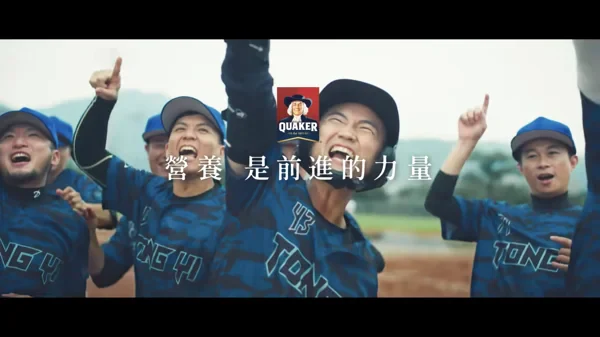
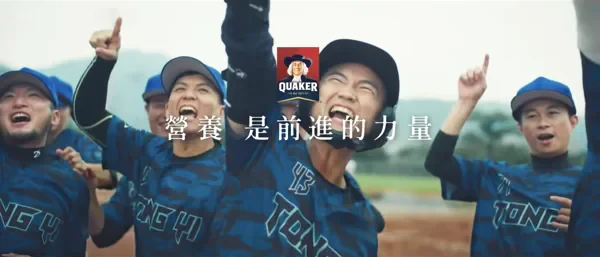
feat: 完成劇照黑邊裁除與焦點對位、同品牌篇名區隔及字體 CSP 相容升級

diff --git a/src/data/portfolio.js b/src/data/portfolio.js
@@ -137,7 +137,8 @@ export const categories = [
       {
         "name": "瑞穗鮮乳",
         "bgImage": "/vfx/A/A-023.webp",
-        "url": "https://www.youtube.com/watch?v=owT3Sj_So60"
+        "url": "https://www.youtube.com/watch?v=owT3Sj_So60",
+        "imagePosition": "22% 50%"
       },
       {
         "name": "義美生機",
@@ -223,7 +224,8 @@ export const categories = [
         "bgImage": "/vfx/B/B-08.webp",
         "url": "https://www.facebook.com/watch/?v=558217842125093",
         "videoId": "558217842125093",
-        "isFacebook": true
+        "isFacebook": true,
+        "imagePosition": "50% 28%"
       },
       {
         "name": "Samsung Z Fold4 / Z Flip4",
@@ -270,7 +272,8 @@ export const categories = [
       {
         "name": "Gogoro Pulse",
         "bgImage": "/vfx/C/C-04.webp",
-        "url": "https://www.youtube.com/watch?v=Wyijlye4kMg"
+        "url": "https://www.youtube.com/watch?v=Wyijlye4kMg",
+        "imagePosition": "20% 50%"
       },
       {
         "name": "Gogoro EZZY",
@@ -326,7 +329,7 @@ export const categories = [
     "name": "生活與百貨",
     "items": [
       {
-        "name": "新光三越",
+        "name": "新光三越 週年慶",
         "bgImage": "/vfx/D/D-13.webp",
         "url": "https://www.youtube.com/watch?v=wZhogI5TPB8",
         "featured": true
@@ -342,12 +345,12 @@ export const categories = [
         "url": "https://www.youtube.com/watch?v=BOj8-iDaB0s"
       },
       {
-        "name": "HOLA",
+        "name": "HOLA 老相機篇",
         "bgImage": "/vfx/D/D-03.webp",
         "url": "https://www.youtube.com/watch?v=Q9LzOnPCeNY"
       },
       {
-        "name": "東和鋼鐵",
+        "name": "東和鋼鐵 百分百足重篇",
         "bgImage": "/vfx/D/D-09.webp",
         "url": "https://www.youtube.com/watch?v=rYPjfcAH-rc"
       },
@@ -360,7 +363,7 @@ export const categories = [
         "bgImage": "/vfx/D/D-02.webp"
       },
       {
-        "name": "HOLA",
+        "name": "HOLA 新年遊戲篇",
         "bgImage": "/vfx/D/D-04.webp",
         "url": "https://www.youtube.com/watch?v=j8XBx4yFsN8"
       },
@@ -379,12 +382,12 @@ export const categories = [
         "url": "https://www.youtube.com/watch?v=nFl6OMheFho"
       },
       {
-        "name": "東和鋼鐵",
+        "name": "東和鋼鐵 人生地震",
         "bgImage": "/vfx/D/D-10.webp",
         "url": "https://www.youtube.com/watch?v=F7SOWrCCJyM"
       },
       {
-        "name": "東和鋼鐵",
+        "name": "東和鋼鐵 鋼好篇",
         "bgImage": "/vfx/D/D-11.webp",
         "url": "https://www.youtube.com/watch?v=UFPNdAaG0_M"
       },
@@ -394,17 +397,17 @@ export const categories = [
         "url": "https://www.youtube.com/watch?v=yjl03-QCzbM"
       },
       {
-        "name": "新光三越",
+        "name": "新光三越 母親節寵愛篇",
         "bgImage": "/vfx/D/D-14.webp",
         "url": "https://www.youtube.com/watch?v=xS3VLzTJxs0"
       },
       {
-        "name": "新光三越",
+        "name": "新光三越 母親節媽吉篇",
         "bgImage": "/vfx/D/D-15.webp",
         "url": "https://www.youtube.com/watch?v=7bpKC3naivA"
       },
       {
-        "name": "新光三越",
+        "name": "新光三越 夏天卡利HIGH",
         "bgImage": "/vfx/D/D-16.webp",
         "url": "https://www.youtube.com/watch?v=QC2Adq-3lOc"
       },
@@ -462,7 +465,8 @@ export const categories = [
         "name": "Bifesta 碧菲絲特",
         "bgImage": "/vfx/E/E-03.webp",
         "url": "https://www.youtube.com/shorts/jPH0atsz3UY",
-        "aspect": "portrait"
+        "aspect": "portrait",
+        "imagePosition": "50% 38%"
       },
       {
         "name": "MAMA 永恆光燦系列",
@@ -493,7 +497,8 @@ export const categories = [
       {
         "name": "蕾妮亞",
         "bgImage": "/vfx/E/E-13.webp",
-        "url": "https://www.instagram.com/reels/DLjzvwEyK6A/"
+        "url": "https://www.instagram.com/reels/DLjzvwEyK6A/",
+        "imagePosition": "50% 24%"
       },
       {
         "name": "義美生醫 鈣D加",
@@ -518,7 +523,7 @@ export const categories = [
         "featured": true
       },
       {
-        "name": "台灣Pay",
+        "name": "台灣Pay 你的Pay配不配",
         "bgImage": "/vfx/F/F-02.webp",
         "url": "https://www.youtube.com/watch?v=gsQScjFurQs"
       },
@@ -535,7 +540,7 @@ export const categories = [
         "isFacebook": true
       },
       {
-        "name": "台灣Pay",
+        "name": "台灣Pay 共榮生活圈",
         "bgImage": "/vfx/F/F-03.webp",
         "url": "https://www.youtube.com/watch?v=ckgbItI0kaw"
       },

diff --git a/src/components/Manifesto.jsx b/src/components/Manifesto.jsx
@@ -214,9 +214,8 @@ export default function Manifesto({ onPlayVideo }) {
           <div className="md:col-span-5 md:sticky md:top-28 space-y-8 text-zinc-300 text-sm md:text-[16px] leading-[1.9] font-light">
             <p>
               作為台灣俗稱的 <span className="text-white font-normal">D1 技師 (VFX Artist)</span>，我接手廣告製作的最後一步。一支廣告片從前期創意發想、實際拍攝、Offline 剪接再到調光，最後檔案來到我手中，使用{' '}
-              <span
-                role="button"
-                tabIndex={0}
+              <button
+                type="button"
                 aria-label="檢視 Autodesk Flame 實際專案 Batch 節點介面"
                 onPointerEnter={handleFlameEnter}
                 onPointerLeave={(e) => {
@@ -228,23 +227,20 @@ export default function Manifesto({ onPlayVideo }) {
                 onBlur={() => setFlamePreview(null)}
                 onClick={openFlameSchematic}
                 onKeyDown={(e) => {
-                  if (e.key === 'Enter' || e.key === ' ') {
-                    e.preventDefault();
-                    openFlameSchematic();
-                  } else if (e.key === 'Escape' && flamePreview) {
+                  if (e.key === 'Escape' && flamePreview) {
                     e.preventDefault();
                     e.stopPropagation();
                     setFlamePreview(null);
                   }
                 }}
-                className="relative inline-flex items-center gap-1 group/flame cursor-pointer focus:outline-none focus-visible:ring-1 focus-visible:ring-spectral-crimson"
+                className="relative inline-flex items-center gap-1 group/flame cursor-pointer bg-transparent border-0 p-0 align-baseline focus:outline-none focus-visible:ring-1 focus-visible:ring-spectral-crimson"
               >
                 <span className="text-white group-hover/flame:text-dawn-gold font-medium transition-colors duration-300">
                   Autodesk Flame
                 </span>
                 <ArrowUpRight size={13} className="text-spectral-crimson transition-transform duration-300 group-hover/flame:translate-x-0.5 group-hover/flame:-translate-y-0.5" />
                 <span className="absolute bottom-0 left-0 w-full h-[1.5px] spectral-underline" />
-              </span>{' '}
+              </button>{' '}
               進行 Online。依需求進行人物膚質精修、場景穿幫、綠幕去背、3D物件合成、商品合成與字幕效果。在反覆經由導演、代理商確認並與客戶實際交片後，最後製作 <span className="text-white font-normal">SC 播帶</span>，完成這次專案。
             </p>
 
@@ -325,6 +321,10 @@ export default function Manifesto({ onPlayVideo }) {
                                   />
                                   <span>{param.key}</span>
                                 </span>
+                                <ArrowUpRight
+                                  size={14}
+                                  className="shrink-0 text-zinc-500 group-hover/play:text-spectral-crimson group-hover/play:translate-x-0.5 group-hover/play:-translate-y-0.5 transition-[color,transform] duration-200"
+                                />
                               </a>
                             ) : (
                               <button

diff --git a/src/data/__tests__/portfolio.test.js b/src/data/__tests__/portfolio.test.js
@@ -95,11 +95,11 @@ describe('portfolio.js 最佳化邏輯測試', () => {
         '長榮航空',
       ]);
       expect(getNames('lifestyle', 5)).toEqual([
-        '新光三越',
+        '新光三越 週年慶',
         'LaLaport 南港',
         '錦鋐氣密窗',
-        'HOLA',
-        '東和鋼鐵',
+        'HOLA 老相機篇',
+        '東和鋼鐵 百分百足重篇',
       ]);
       // 確認生活百貨首位新光三越、HOLA、東和鋼鐵皆為原排序首支版本
       const lifestyleItems = categories.find((c) => c.id === 'lifestyle').items;
@@ -116,10 +116,10 @@ describe('portfolio.js 最佳化邏輯測試', () => {
       ]);
       expect(getNames('finance', 5)).toEqual([
         '渣打銀行',
-        '台灣Pay',
+        '台灣Pay 你的Pay配不配',
         '磊山保經',
         '安聯人壽',
-        '台灣Pay',
+        '台灣Pay 共榮生活圈',
       ]);
 
       // 驗證全站 97 筆作品無遺漏、無重複 bgImage

diff --git a/index.html b/index.html
@@ -53,12 +53,7 @@
     fetchpriority="high" />
   <link
     href="https://fonts.googleapis.com/css2?family=Montserrat:wght@700;800&family=Plus+Jakarta+Sans:wght@300;400;500;600&family=JetBrains+Mono:wght@400;500&family=Noto+Sans+TC:wght@300;400;500;700&display=swap"
-    rel="stylesheet" media="print" onload="this.media='all'" />
-  <noscript>
-    <link
-      href="https://fonts.googleapis.com/css2?family=Montserrat:wght@700;800&family=Plus+Jakarta+Sans:wght@300;400;500;600&family=JetBrains+Mono:wght@400;500&family=Noto+Sans+TC:wght@300;400;500;700&display=swap"
-      rel="stylesheet" />
-  </noscript>
+    rel="stylesheet" />
 
   <!-- Structured Data for AEO / GEO & Video Rich Snippet -->
   <script type="application/ld+json">

diff --git a/src/components/VisualSynthesis.jsx b/src/components/VisualSynthesis.jsx
@@ -159,7 +159,7 @@ const CAPTION_VARIANTS = {
   },
 };
 
-const VFX_ASSET_VERSION = 'v5';
+const VFX_ASSET_VERSION = 'v6';
 
 const getDisplayImageUrl = (item) => {
   if (!item?.bgImage) return null;

diff --git a/PROJECT_NOTES.md b/PROJECT_NOTES.md
@@ -318,4 +318,8 @@
   - **應徵前全站影片可播性與品牌正名校準（`portfolio.js`、`Manifesto.jsx`、`portfolio.test.js`、`Modal.test.jsx`）**：
     - 對全站 63 支 YouTube 作品與兩支 Showreel 執行 oEmbed 可播性實彈稽核：修正「美妝與健康」分類 `Accu-Chek 羅氏血糖機` 品牌拼字，並移除客戶已轉為私人影片之失效連結 `HUaASbBDOSM`（轉為純劇照展示卡）；同步將鴻華先進概念車名統一校正為官方正名 `Foxtron Cavira`。
     - 清理 4 筆外部連結冗餘參數（移除 `Panasonic 冷萃咖啡機` 馬來西亞語系 `?locale=ms_MY`、`中國信託` 播放清單、`TOBLERONE` 時間碼與 `Foxtron Cavira` 追蹤碼）；對齊 `農純鄉 大本山益生菌`、`foodpanda`、`Uber Eats` 官方標準字；並將聯絡區抽屜（`Contact.jsx`、`FeedbackModal.jsx`）文案由網站意見回饋升級為「傳送訊息／專案合作洽詢、職務邀約或影像交流」專業商務語氣。
+  - **第十一輪全站光學構圖裁切、同品牌篇名區隔與 CSP 字體載入深度打磨（`portfolio.js`、`VisualSynthesis.jsx`、`Manifesto.jsx`、`index.html`、`vercel.json`）**：
+    - **直式與 4:3 劇照構圖對位**：為 `Samsung Z Fold3 / Z Flip3`（`50% 28%`）、`蕾妮亞`（`50% 24%`）、`Bifesta 碧菲絲特`（`50% 38%`）補齊垂直焦點定位，消除預設居中裁切造成的切額頭與切標題問題。
+    - **小卡遮幅黑邊裁除與滿框齊平**：裁除 `Audi`（`C-01.webp` 頂部 42px 單側黑邊）、`桂格`（`A-018.webp`）、`Gogoro Pulse`（`C-04.webp`，搭配 `20% 50%` 完整保留左上 Logo 與翹孤輪騎士）及 `瑞穗鮮乳`（`A-023.webp`，搭配 `22% 50%`）之遮幅黑邊，並將 `VFX_ASSET_VERSION` 升至 `v6`。
+    - **同品牌多支作品篇名區隔、外連標示與 CSP 相容**：為「生活與百貨」與「金融與保險」重複同名之 `新光三越`（×4）、`東和鋼鐵`（×3）、`HOLA`（×2）、`台灣Pay`（×2）補上官方篇名副標達成全站同分類零撞名；`Manifesto.jsx` 外部社群案例補齊右上 `ArrowUpRight` 圖示並將 `Autodesk Flame` 升級為原生 `<button>`；移除 `index.html` 字體 `<link onload>` 行內腳本並清理 `vercel.json` 廢棄網域。
 
